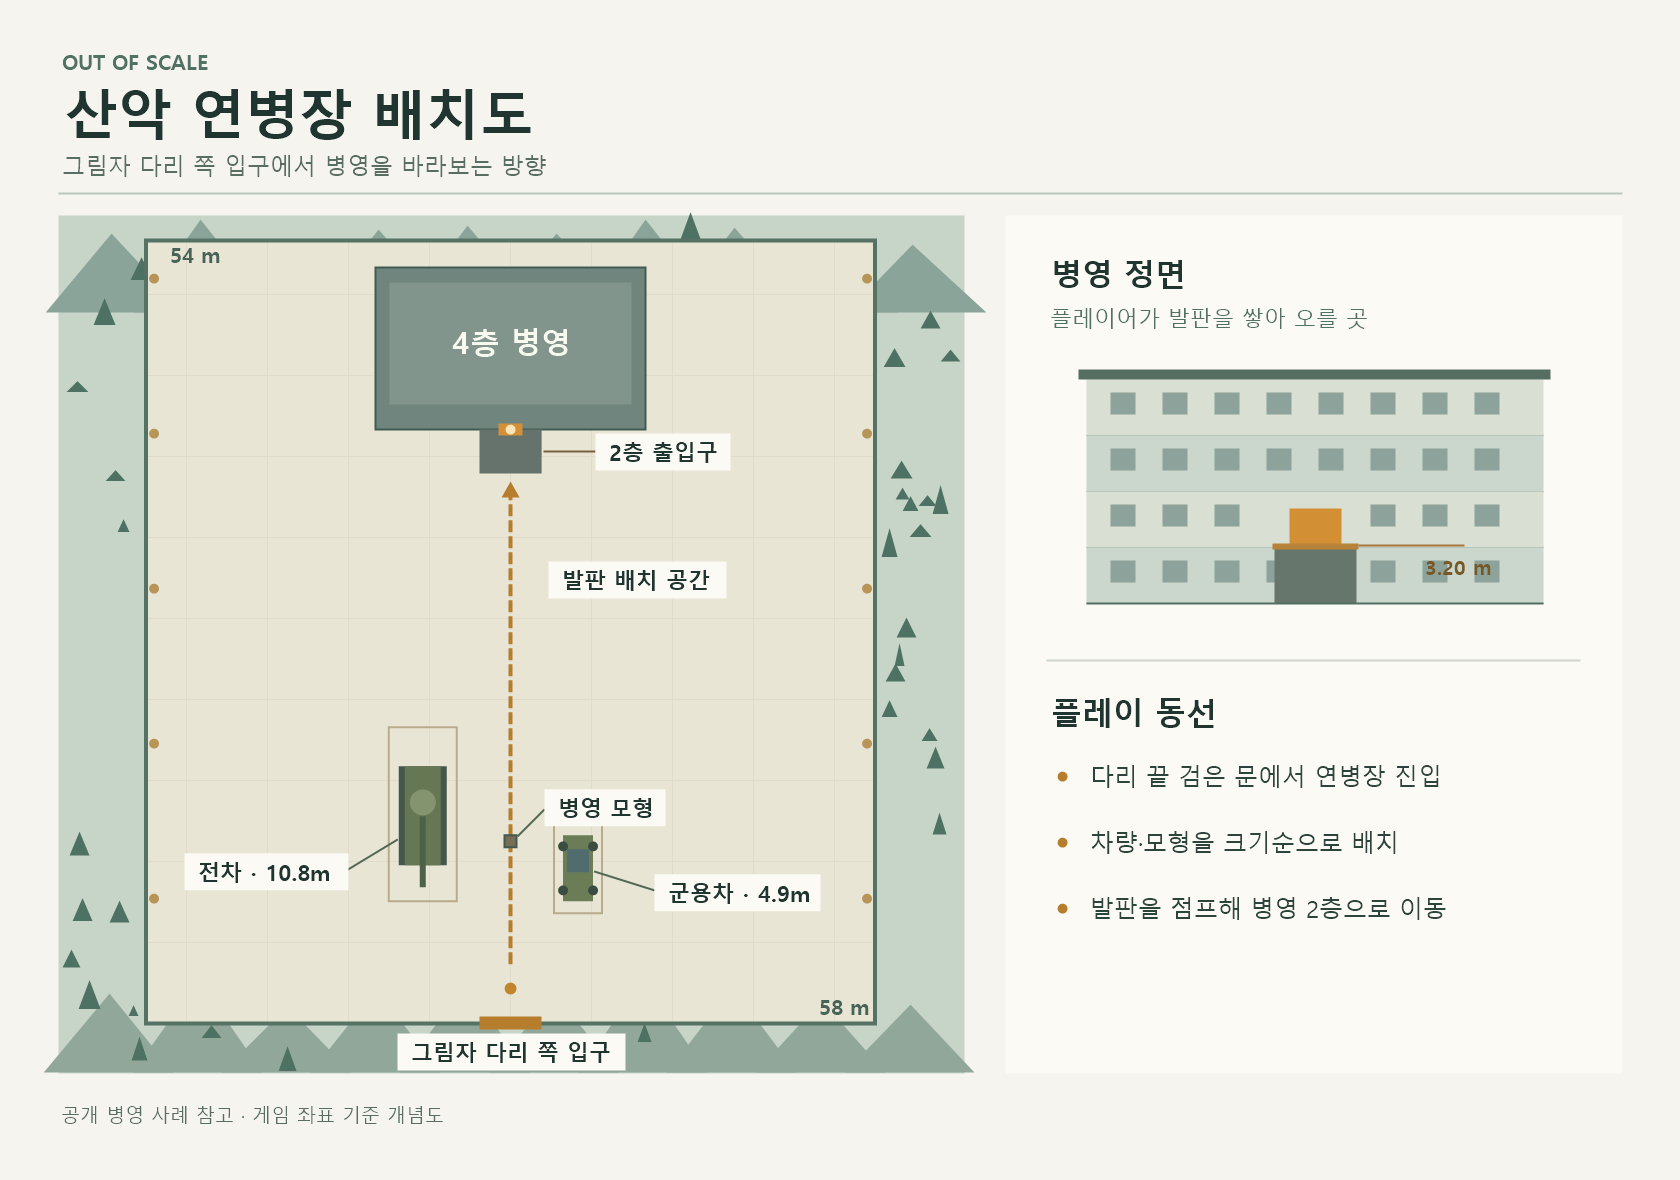
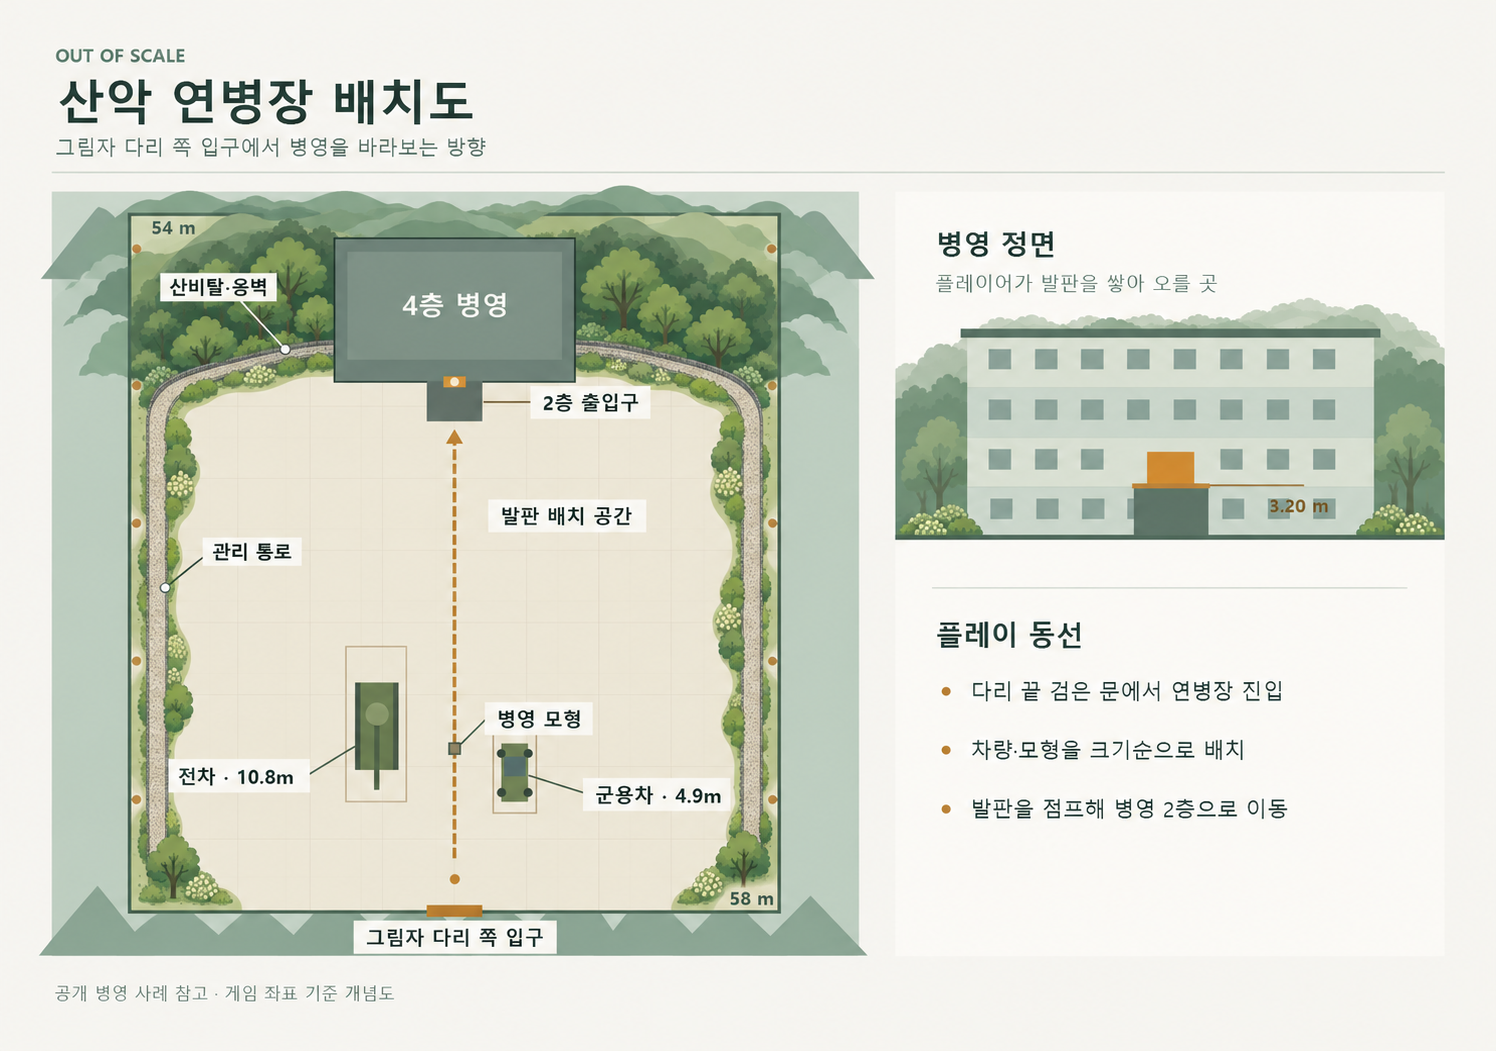
docs: 연병장 조경 배치안 반영

diff --git a/docs/tasks/B-009.md b/docs/tasks/B-009.md
@@ -70,3 +70,4 @@
 
 - 크롬에서 공개 병영 사례를 확인함. 넓은 연병장과 병영의 관계를 참고하고, 현재 게임 좌표에 맞춰 [배치도](<../../rooms/military/design/산악 연병장 배치도.png>)를 그림. [화천 병영시설](https://m.haeahn.com/en/project/detail.do?prjctSeq=650) · [파주 병영시설](https://m.haeahn.com/ko/project/detail.do?prjctSeq=282)
 - 54m × 58m 바닥, 입구 쪽 차량·모형, 중앙 발판 배치 공간, 4층 병영의 3.20m 높이 2층 문을 표시함. PNG 1680 × 1180과 [기획서 링크](../../illusion-escape-game-plan.md) 확인 후 `yoon778`에 공유함
+- 후속 [조경안](<../../rooms/military/design/산악 연병장 배치도.png>)은 병영 뒤 산비탈의 수목과 낮은 옹벽을 외곽 관리 통로까지 이음. 그림에서 중앙 발판 공간과 2층 문 높이를 확인함. [기획서](../../illusion-escape-game-plan.md)에 조경안을 기록하고 `yoon778`에 공유함

diff --git a/illusion-escape-game-plan.md b/illusion-escape-game-plan.md
@@ -120,6 +120,8 @@
 2. 모형은 바닥이나 다른 모형 위에 떨어져 멈춘다. 낮은 모형부터 높은 지붕까지 오를 단차를 만들고 스페이스바로 모형 위를 차례로 밟는다. 다시 집어 배치를 고칠 수 있다.
 3. 높이 3.20m의 2층 출입구로 걸어 들어가면 군대 맵이 완료된다. 회사로 이어지는 복도는 회사 맵 통합 때 연결한다.
 
+조경안은 병영 뒤 산비탈의 숲을 건물 양옆까지 이어 그린다. 낮은 돌 옹벽과 외곽 관리 통로가 병영과 입구를 잇고, 발판을 놓는 중앙 공간을 둘러싼다.
+
 [연병장 배치도](<rooms/military/design/산악 연병장 배치도.png>) · [연병장 Blender 원본](<rooms/military/design/연병장.blend>)
 
 ### 추가 구성 후보
